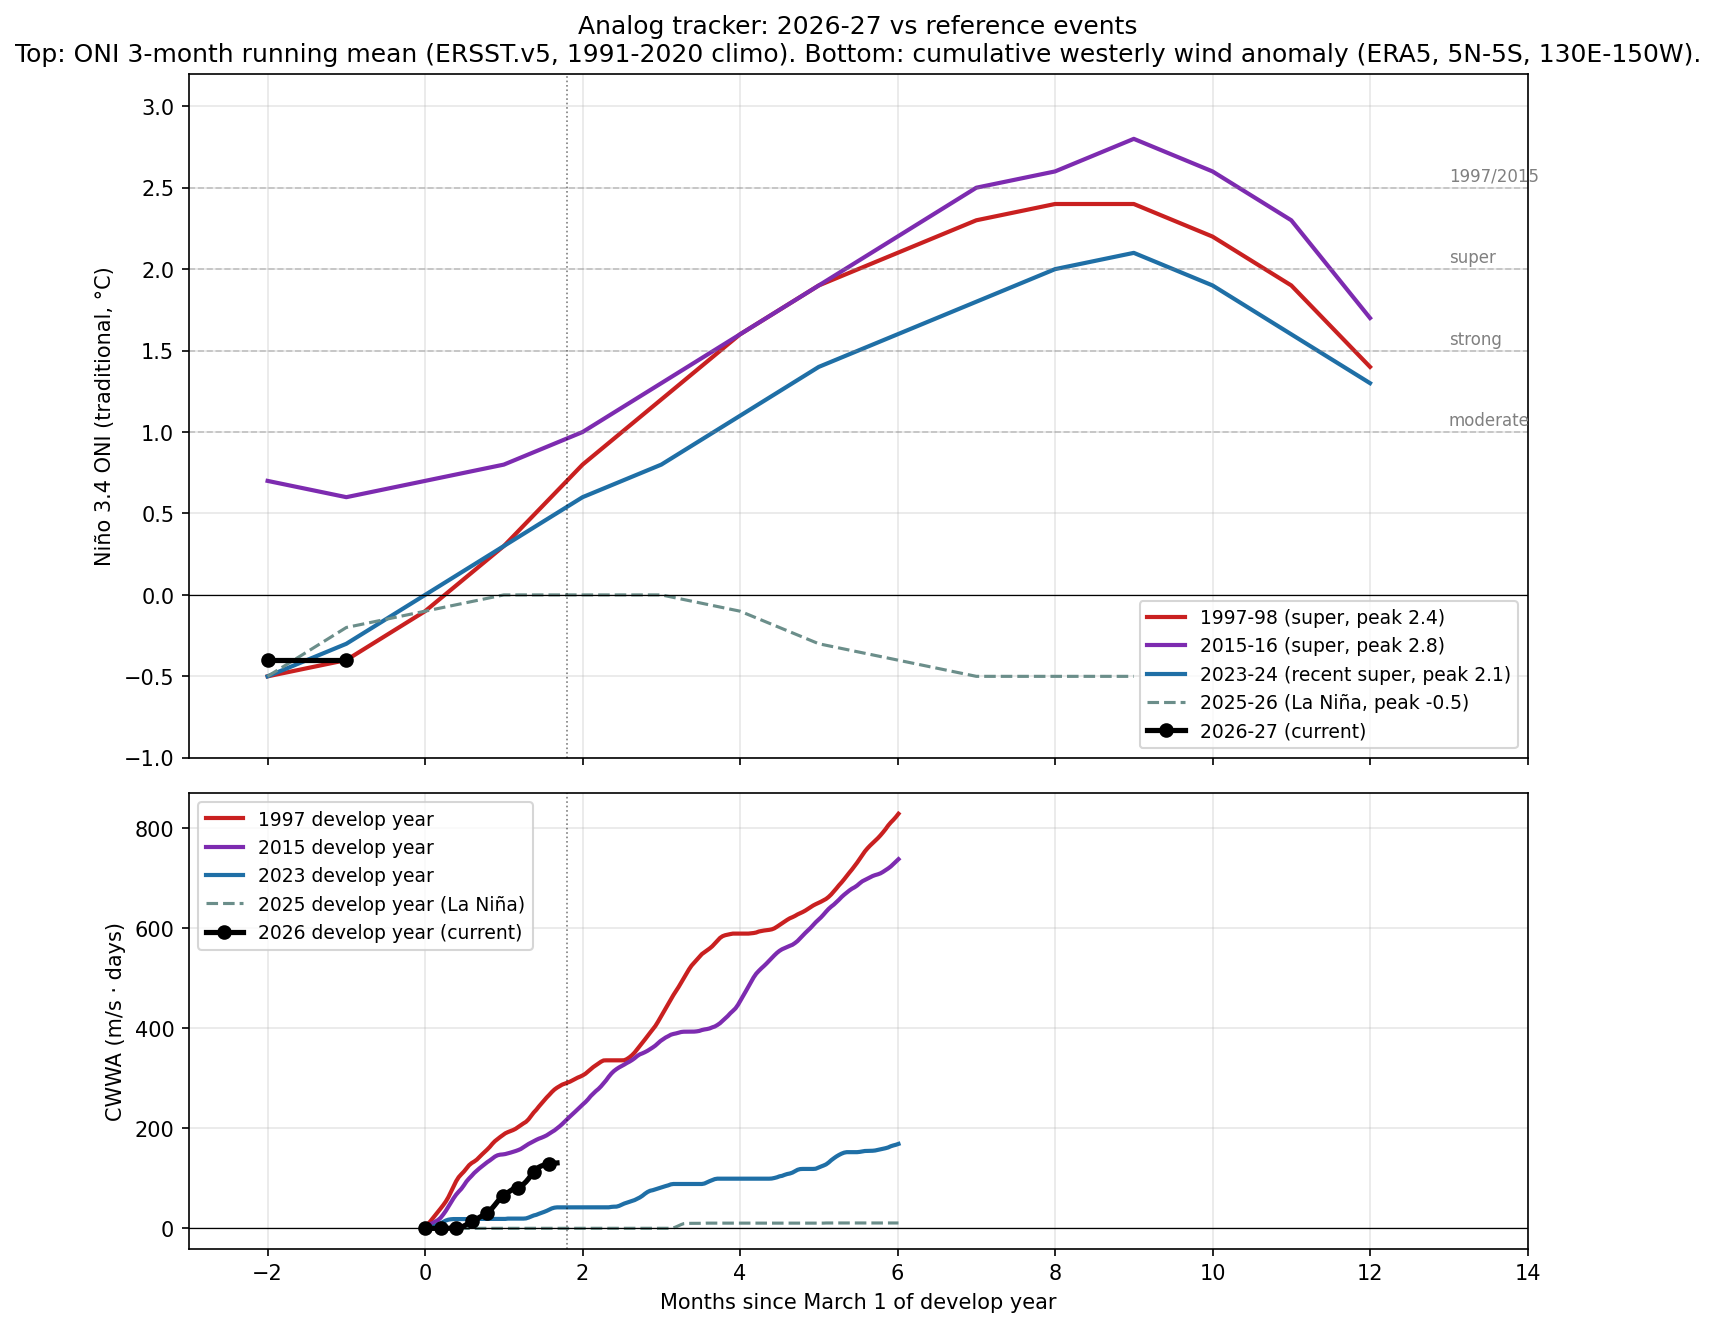
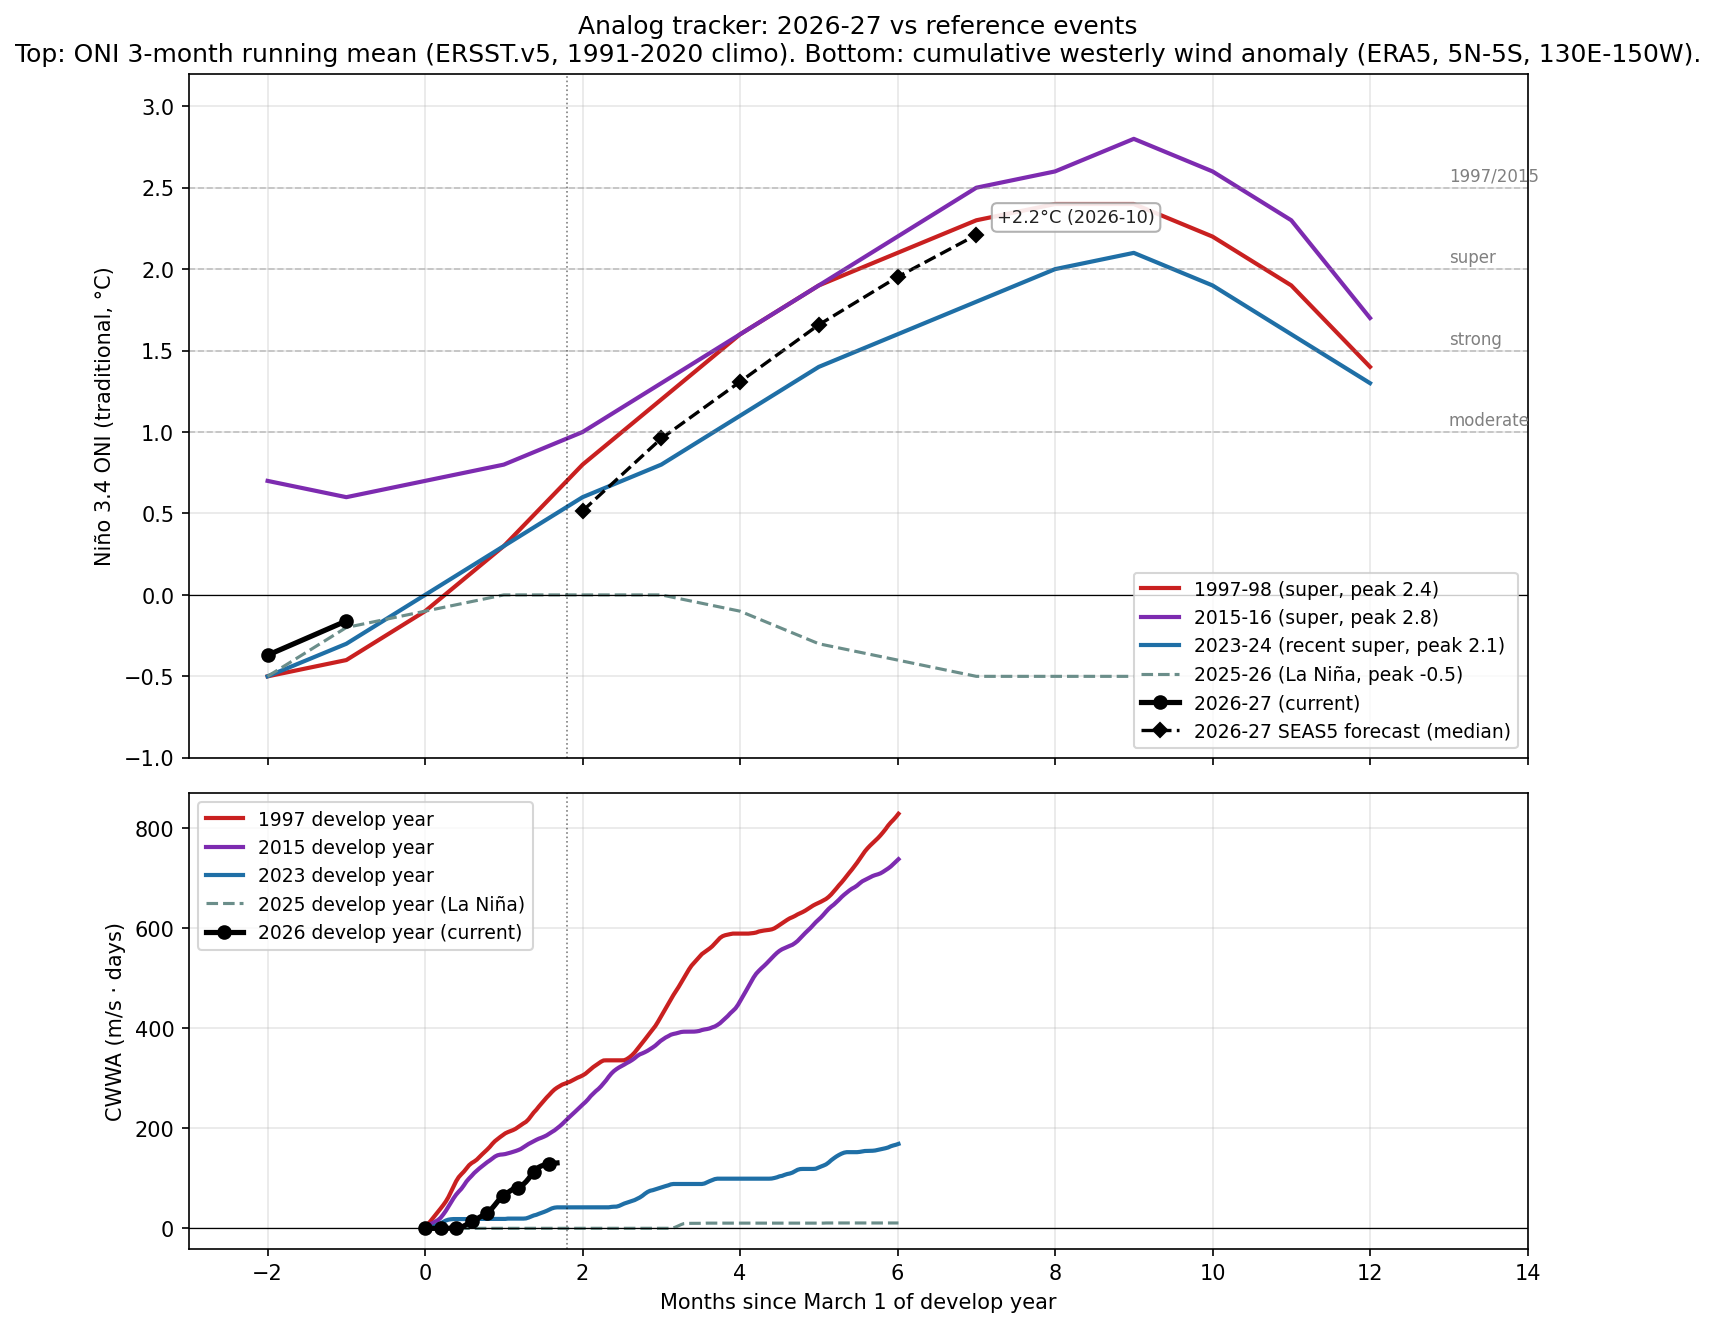
analog: auto-fetch current-year ONI from oni.ascii.txt
The 2026 rows in data/oni_historical.csv were hand-curated to one
significant figure (DJF -0.4, JFM -0.4) and have drifted from the
live CPC values (DJF -0.37, JFM -0.16). New fetcher
fetchers/oni_history.py pulls oni.ascii.txt weekly and surfaces
by_year/season anomalies through fetch_all. analog.plot now accepts
live_oni_by_year plus override_year and merges the live current-year
rows over (or beyond) the CSV. Historical years (1997, 2015, 2023,
2024, 2025) stay frozen in the CSV; only the current calendar year is
refreshed. As soon as CPC publishes FMA 2026 (~mid-May), it lands on
the chart automatically with no manual edit.

The "issued" date for diff purposes is set to the last day of the
latest complete season's last month, so the snapshot diff layer sees
a new release each month CPC publishes.

Note: the hand-written "Read this week" prose in run_brief.py still
references 2026 JFM = -0.4 and the comparison to 1997/2023 at that
value. With JFM 2026 now correctly -0.16, that narrative is slightly
stale and may want a hand-rewrite. The analog chart itself is
correct.

Methodology version not bumped: this is a data-staleness fix, not a
methodology change. The CWWA addition stays at v1.2.

diff --git a/briefs/2026-04-25/brief.html b/briefs/2026-04-25/brief.html
@@ -105,6 +105,7 @@ Headline numbers below are CPC-derived after translating from RONI bins to tradi
 <li><strong>bom</strong>: fetched live, issued 2026-04-14.</li>
 <li><strong>ecmwf_seas5</strong>: fetched live, issued 2026-04-01.</li>
 <li><strong>era5_wwe</strong>: fetched live, issued 2026-04-21.</li>
+<li><strong>oni_history</strong>: fetched live, issued 2026-03-31.</li>
 </ul>
 <hr />
 <p><em>Generated by run_brief.py from sources.py + probs.py + analog.py. Methodology version 1.2. RONI offset +0.40°C (live, week of 2026-04-15). Next issue: Mon 4 May 2026 (per Monday cadence; first batch run is off-schedule).</em></p>

diff --git a/analog.py b/analog.py
@@ -66,51 +66,61 @@ def months_since_march1(record_year: int, develop_year: int, season: str) -> int
     return absolute_month - 3          # March 1 = 0
 
 
-def load_trajectories():
-    """Return dict: develop_year -> list of (months_since_mar1, oni)."""
-    out = {}
-    # The CSV stores develop_year for each row. Recover the actual year
-    # from develop_year (rows in develop year and post-develop year).
-    # We treat the develop_year column as a label indicating which event the
-    # row belongs to; the actual record year is develop_year for in-year
-    # seasons (DJF=Jan-Feb of develop_year, ..., NDJ=Nov-Jan); but rows
-    # labeled (develop_year+1) are explicit in the CSV. So we infer from
-    # the CSV row label `develop_year` directly.
+DEVELOP_YEARS = (1997, 2015, 2023, 2025, 2026)
+DECAY_YEARS = (1998, 2016, 2024)
+
+
+def _event_for(year: int, season: str) -> int | None:
+    if year in DEVELOP_YEARS:
+        return year
+    if year in DECAY_YEARS:
+        return year - 1
+    return None
+
+
+def load_trajectories(live_oni_by_year: dict | None = None,
+                      override_year: int | None = None):
+    """Return dict: develop_year -> list of (months_since_mar1, oni).
+
+    `live_oni_by_year` is dict[int year -> dict[season -> oni]] from CPC's
+    oni.ascii.txt, used to override / extend the CSV rows for the current
+    calendar year. Historical years stay frozen in the CSV. If
+    `override_year` is given, only that year is overridden / extended.
+    """
     rows = []
     with open(CSV_PATH) as f:
-        # Skip leading comment lines (start with '#')
         lines = [ln for ln in f if not ln.lstrip().startswith("#")]
     import io
     for row in csv.DictReader(io.StringIO("".join(lines))):
         rows.append(row)
 
-    # We need to know which "event" each row belongs to. Group by event.
-    # Convention in the CSV: rows labeled 1997 belong to 1997-98 event,
-    # rows labeled 1998 belong to 1997-98 event, etc.
-    event_for_row = {}
+    series: dict[int, list[tuple[int, float]]] = {}
     for r in rows:
         y = int(r["develop_year"])
-        # Define event = first year of the develop-pair
-        if y in (1997, 2015, 2023, 2025, 2026):
-            event_for_row[(y, r["season"])] = y
-        elif y in (1998, 2016, 2024):
-            event_for_row[(y, r["season"])] = y - 1
-        # 2025 has no decay-year rows; trajectory ends at NDJ (month 9).
-        # 2026 has no follow-up rows yet, fine.
-
-    series = {}
-    for r in rows:
-        y = int(r["develop_year"])
+        if override_year is not None and y == override_year and live_oni_by_year:
+            # Skip CSV rows for the override year; we'll use live data instead.
+            continue
         season = r["season"]
-        oni = float(r["oni"])
-        event = event_for_row.get((y, season))
+        event = _event_for(y, season)
         if event is None:
             continue
         m = months_since_march1(record_year=y, develop_year=event, season=season)
-        series.setdefault(event, []).append((m, oni))
+        series.setdefault(event, []).append((m, float(r["oni"])))
+
+    if live_oni_by_year and override_year is not None:
+        for season, oni in live_oni_by_year.get(override_year, {}).items():
+            event = _event_for(override_year, season)
+            if event is None:
+                continue
+            try:
+                m = months_since_march1(record_year=override_year,
+                                        develop_year=event, season=season)
+            except KeyError:
+                continue
+            series.setdefault(event, []).append((m, float(oni)))
 
     for event in series:
-        series[event].sort()
+        series[event] = sorted(set(series[event]))
     return series
 
 
@@ -151,6 +161,44 @@ def _plot_oni(ax, series):
         if "linestyle" in s:
             kwargs["linestyle"] = s["linestyle"]
         ax.plot(xs, ys, **kwargs)
+
+
+def _plot_seas5_forecast(ax, per_lead, current_develop_year: int):
+    """Overlay ECMWF SEAS5 ensemble median trajectory as a dashed forecast line.
+
+    SEAS5 outputs monthly mean Niño 3.4 anomaly, which is a close-but-not-identical
+    cousin of the 3-month-running-mean ONI used for the analog series. Treated as
+    visually comparable; the caption flags the distinction.
+    """
+    if not per_lead:
+        return
+    xs, ys = [], []
+    for entry in per_lead:
+        cal = entry.get("calendar")
+        med = entry.get("median")
+        if cal is None or med is None:
+            continue
+        year, month = (int(x) for x in cal.split("-"))
+        offset = (year - current_develop_year) * 12 + (month - 3)
+        xs.append(offset)
+        ys.append(med)
+    if not xs:
+        return
+
+    ax.plot(xs, ys, color="#000000", linestyle="--", linewidth=1.6,
+            marker="D", markersize=5,
+            label=f"{current_develop_year}-{(current_develop_year + 1) % 100:02d} "
+                  "SEAS5 forecast (median)")
+
+    peak_idx = ys.index(max(ys))
+    ax.annotate(
+        f"+{ys[peak_idx]:.1f}°C ({per_lead[peak_idx]['calendar']})",
+        xy=(xs[peak_idx], ys[peak_idx]),
+        xytext=(10, 6), textcoords="offset points",
+        fontsize=8.5, color="#222",
+        bbox=dict(boxstyle="round,pad=0.3", facecolor="white",
+                  edgecolor="#aaa", alpha=0.9),
+    )
 
     for y, lbl in [(1.0, "moderate"), (1.5, "strong"), (2.0, "super"), (2.5, "1997/2015")]:
         ax.axhline(y, color="grey", linestyle="--", alpha=0.4, linewidth=0.8)
@@ -212,14 +260,24 @@ def _plot_cwwa(ax, current_series, analogs, current_develop_year):
 
 
 def plot(out_path: str, cwwa_data: dict | None = None,
-         current_develop_year: int = 2026, today_offset: float | None = None):
+         seas5_per_lead: list | None = None,
+         current_develop_year: int = 2026, today_offset: float | None = None,
+         live_oni_by_year: dict | None = None):
     """Render the two-panel analog chart. If `cwwa_data` is supplied (with keys
     `cwwa_series` and `cwwa_analogs`), the bottom panel shows CWWA trajectories;
-    otherwise it stays empty with a placeholder message."""
-    series = load_trajectories()
+    otherwise it stays empty with a placeholder message. If `seas5_per_lead` is
+    supplied, overlay the SEAS5 ensemble median as a dashed forecast on the ONI
+    panel. If `live_oni_by_year` is supplied (CPC oni.ascii format,
+    dict[year -> dict[season -> oni]]), the current develop-year ONI rows on
+    the top panel are refreshed from that live data; historical rows stay
+    sourced from the CSV."""
+    series = load_trajectories(live_oni_by_year=live_oni_by_year,
+                               override_year=current_develop_year)
     fig, (ax_oni, ax_cwwa) = plt.subplots(2, 1, figsize=(10, 9), sharex=True,
                                           gridspec_kw={"height_ratios": [3, 2]})
     _plot_oni(ax_oni, series)
+    if seas5_per_lead:
+        _plot_seas5_forecast(ax_oni, seas5_per_lead, current_develop_year)
     _plot_cwwa(ax_cwwa, (cwwa_data or {}).get("cwwa_series"),
                (cwwa_data or {}).get("cwwa_analogs"), current_develop_year)
 

diff --git a/fetchers/oni_history.py b/fetchers/oni_history.py
@@ -1,0 +1,84 @@
+"""
+Fetch CPC's full ONI seasonal time series.
+
+URL:    https://www.cpc.ncep.noaa.gov/data/indices/oni.ascii.txt
+Format: whitespace-delimited ASCII, one row per 3-month season:
+        SEAS  YR    TOTAL    ANOM
+        DJF  1950   25.36    -1.45
+        ...
+
+Cadence: monthly, alongside the ENSO Diagnostic Discussion.
+
+Used by analog.py to refresh the current-year ONI trajectory each
+Monday so the chart picks up new CPC issuances (e.g., FMA 2026 lands
+in mid-May 2026 and immediately appears on the analog plot without
+hand-editing data/oni_historical.csv). Historical years (1997, 2015,
+2023, 2025) remain frozen in the CSV; the live fetch only overrides
+the current calendar year.
+
+Expected payload:
+  issued: ISO date (last day of the latest complete season's last month)
+  by_year: dict[int year -> dict[season trigram -> oni anomaly float]]
+  latest_year: int (the most recent year present in the file)
+  latest_season: str (the most recent season trigram in the file)
+"""
+
+import calendar
+from datetime import date
+
+from ._common import FetchResult, http_get, now_iso
+
+URL = "https://www.cpc.ncep.noaa.gov/data/indices/oni.ascii.txt"
+
+_TRIGRAM_LAST_MONTH = {
+    "JFM": (0, 3), "FMA": (0, 4), "MAM": (0, 5), "AMJ": (0, 6),
+    "MJJ": (0, 7), "JJA": (0, 8), "JAS": (0, 9), "ASO": (0, 10),
+    "SON": (0, 11), "OND": (0, 12), "NDJ": (1, 1), "DJF": (0, 2),
+}
+
+
+def _issued_for_season(year: int, season: str) -> str:
+    year_offset, last_month = _TRIGRAM_LAST_MONTH[season]
+    last_day = calendar.monthrange(year + year_offset, last_month)[1]
+    return date(year + year_offset, last_month, last_day).isoformat()
+
+
+def fetch() -> FetchResult:
+    try:
+        r = http_get(URL, timeout=20)
+        by_year: dict = {}
+        latest_year = None
+        latest_season = None
+        for line in r.text.splitlines():
+            parts = line.split()
+            if len(parts) != 4:
+                continue
+            season, year_s, _total, anom_s = parts
+            if season not in _TRIGRAM_LAST_MONTH:
+                continue
+            try:
+                year = int(year_s)
+                anom = float(anom_s)
+            except ValueError:
+                continue
+            by_year.setdefault(year, {})[season] = anom
+            latest_year = year
+            latest_season = season
+        if latest_year is None:
+            return FetchResult(source="oni_history", ok=False, fetched_at=now_iso(),
+                               error="no data rows parsed from oni.ascii.txt")
+        issued = _issued_for_season(latest_year, latest_season)
+        return FetchResult(
+            source="oni_history",
+            ok=True,
+            issued=issued,
+            fetched_at=now_iso(),
+            payload={
+                "by_year": by_year,
+                "latest_year": latest_year,
+                "latest_season": latest_season,
+            },
+        )
+    except Exception as e:
+        return FetchResult(source="oni_history", ok=False, fetched_at=now_iso(),
+                           error=f"{type(e).__name__}: {e}")

diff --git a/fetch_all.py b/fetch_all.py
@@ -17,7 +17,10 @@ from datetime import date
 from typing import Any
 
 from fetchers._common import safe_fetch, FetchResult, now_iso
-from fetchers import cpc_strength, oisst_weekly, heat_content, iri, bom, ecmwf_seas5, era5_wwe
+from fetchers import (
+    cpc_strength, oisst_weekly, heat_content, iri, bom,
+    ecmwf_seas5, era5_wwe, oni_history,
+)
 
 import sources as S   # used as seed/fallback
 
@@ -90,6 +93,7 @@ def fetch_all() -> dict:
         "bom":           safe_fetch("bom", bom.fetch),
         "ecmwf_seas5":   safe_fetch("ecmwf_seas5", ecmwf_seas5.fetch),
         "era5_wwe":      safe_fetch("era5_wwe", era5_wwe.fetch),
+        "oni_history":   safe_fetch("oni_history", oni_history.fetch),
     }
 
     out = dict(seeded)  # start from seed
@@ -174,6 +178,27 @@ def fetch_all() -> dict:
         elif wp.get("wwe_count_since_mar1") is not None:
             # Legacy payload from old caches.
             phys["wwe_count_since_mar1_estimate"] = wp["wwe_count_since_mar1"]
+
+    # ONI history is consumed only by analog.py to keep current-year ONI
+    # rows up to date with CPC's latest publication.
+    if results["oni_history"].ok and not results["oni_history"].used_fallback:
+        out["oni_history"] = {
+            "ok": True,
+            "issued": results["oni_history"].issued,
+            "by_year": results["oni_history"].payload.get("by_year", {}),
+            "latest_year": results["oni_history"].payload.get("latest_year"),
+            "latest_season": results["oni_history"].payload.get("latest_season"),
+            "used_fallback": False,
+            "fetched_at": results["oni_history"].fetched_at,
+        }
+    else:
+        out["oni_history"] = {
+            "ok": False, "used_fallback": True,
+            "by_year": {}, "issued": None,
+            "latest_year": None, "latest_season": None,
+            "fallback_note": "oni_history fetch failed; chart uses CSV defaults",
+            "fetched_at": now_iso(),
+        }
 
     # Per-source freshness summary for the brief
     out["_freshness"] = {

diff --git a/run_brief.py b/run_brief.py
@@ -438,10 +438,13 @@ def main():
             "cwwa_analogs": phys_for_chart.get("cwwa_analogs", {}),
         }
     today_offset = (S.BRIEF_DATE.toordinal() - date(S.BRIEF_DATE.year, 3, 1).toordinal()) / 30.44
+    live_oni_by_year = fetched.get("oni_history", {}).get("by_year") or None
     analog.plot(str(BRIEF_DIR / "analog.png"),
                 cwwa_data=cwwa_data,
+                seas5_per_lead=fetched.get("ecmwf_seas5", {}).get("per_lead"),
                 current_develop_year=S.BRIEF_DATE.year,
-                today_offset=today_offset)
+                today_offset=today_offset,
+                live_oni_by_year=live_oni_by_year)
 
     # 3. Snapshot current inputs and diff against last issue
     snap = snapshot.current_snapshot(fetched)

diff --git a/briefs/2026-04-25/brief.md b/briefs/2026-04-25/brief.md
@@ -73,6 +73,7 @@ This week's brief was generated without analyst commentary because the editorial
 - **bom**: fetched live, issued 2026-04-14.
 - **ecmwf_seas5**: fetched live, issued 2026-04-01.
 - **era5_wwe**: fetched live, issued 2026-04-21.
+- **oni_history**: fetched live, issued 2026-03-31.
 
 ---
 
